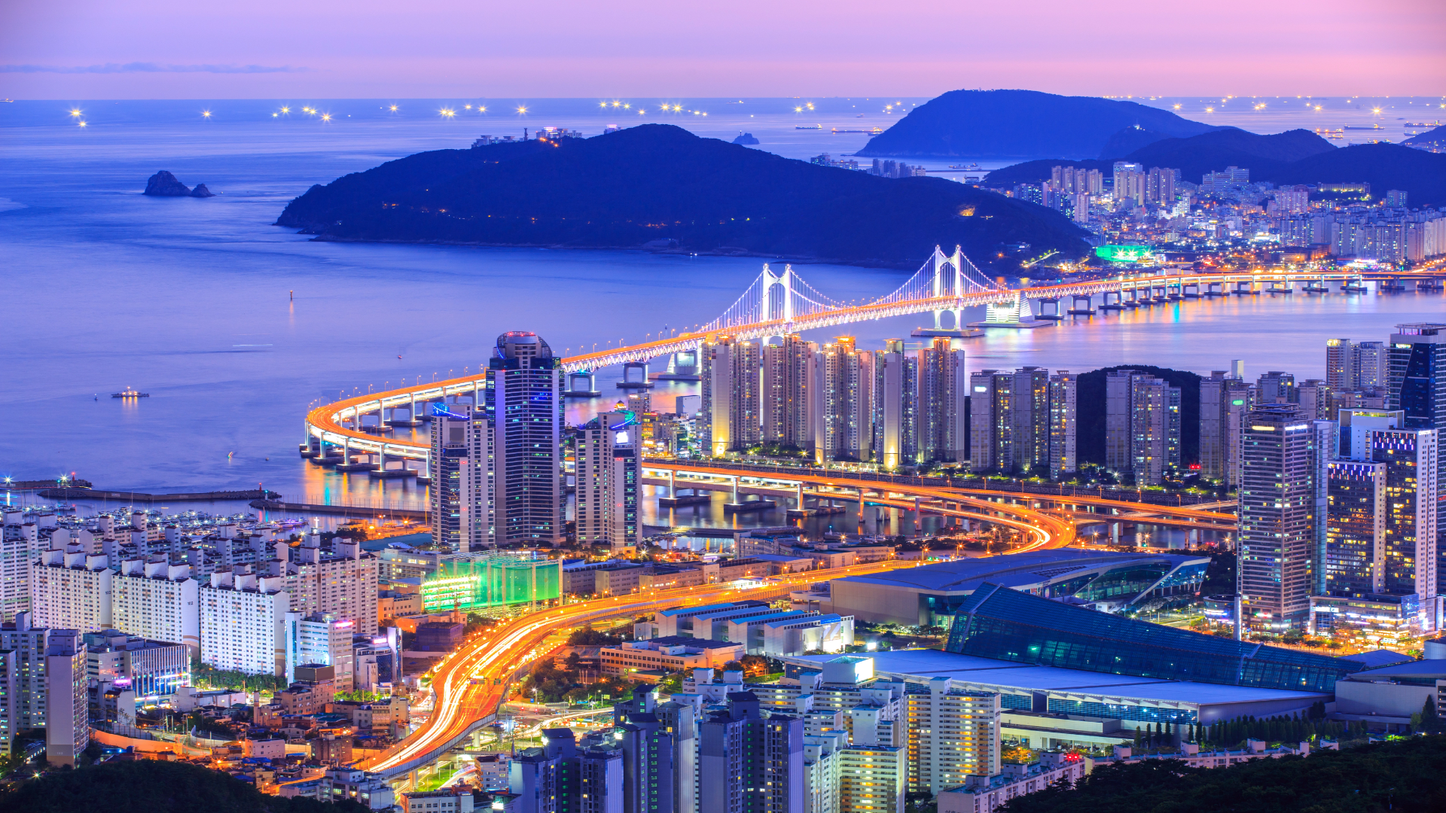
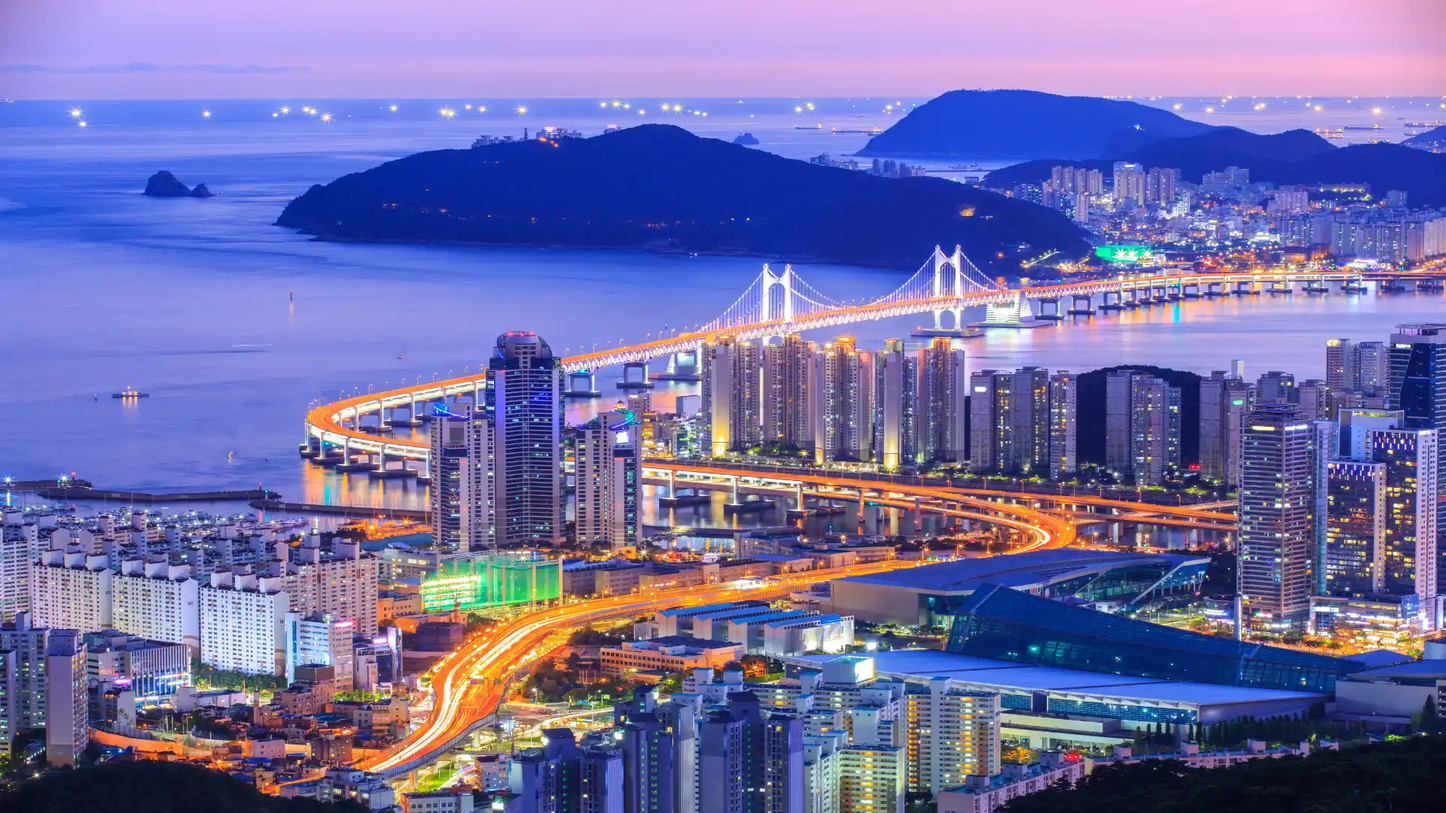
:ambulance: Img size optimizing
webp

diff --git a/client/src/components/common/Header.tsx b/client/src/components/common/Header.tsx
@@ -58,10 +58,9 @@ const AfterLogin = ({ isHome }: HeaderProps) => {
   );
 };
 
-const Header = ({ isHome }: HeaderProps) => {
-  const isHomes = useLocation().pathname === '/';
+const Header = () => {
+  const isHome = useLocation().pathname === '/';
   const isLogin = useSelector((state: RootState) => state.auth.isLogin);
-  console.log(isHomes);
   return (
     <header
       className={`left-0 top-0 z-40 h-[80px] w-full px-12 ${
